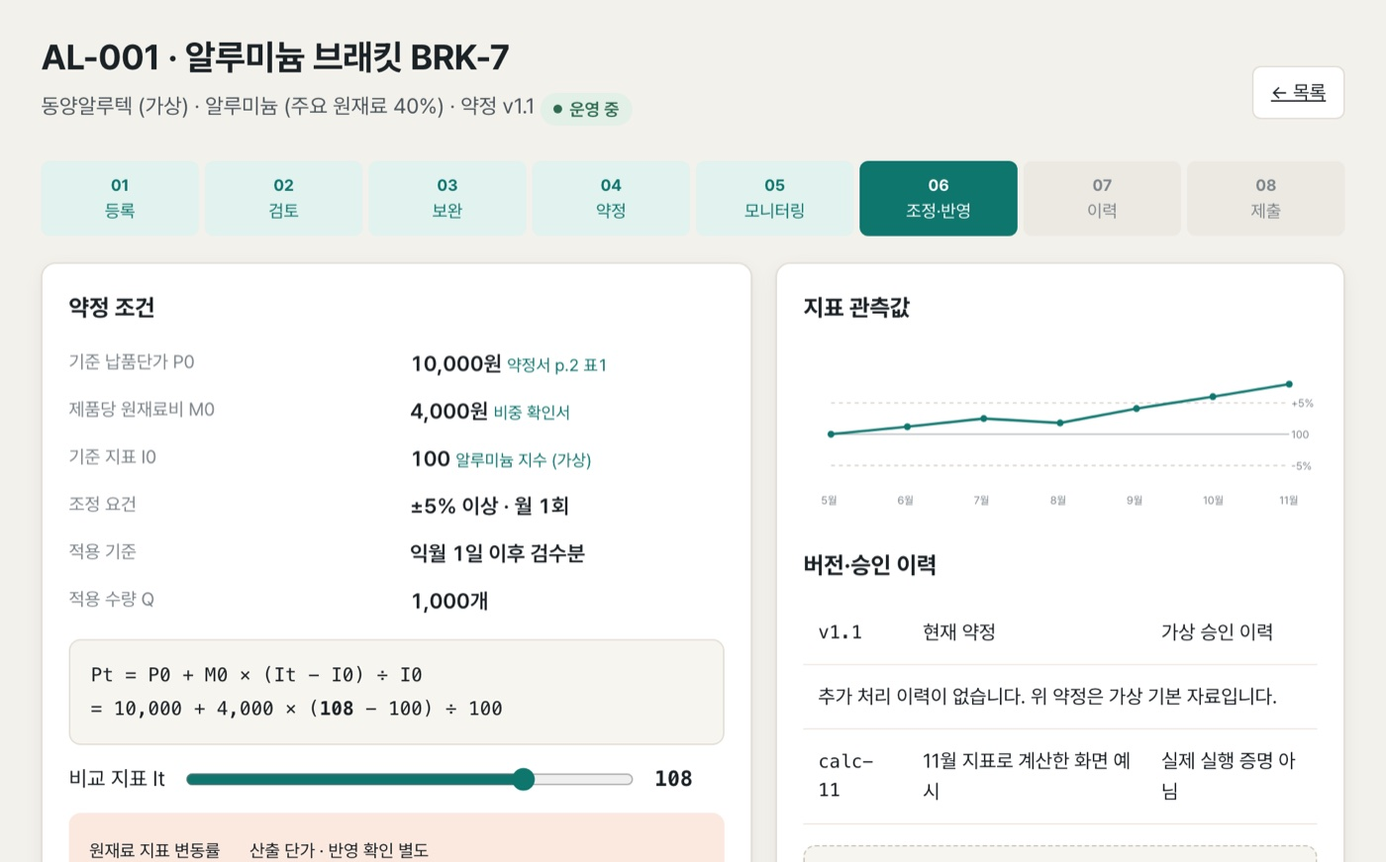
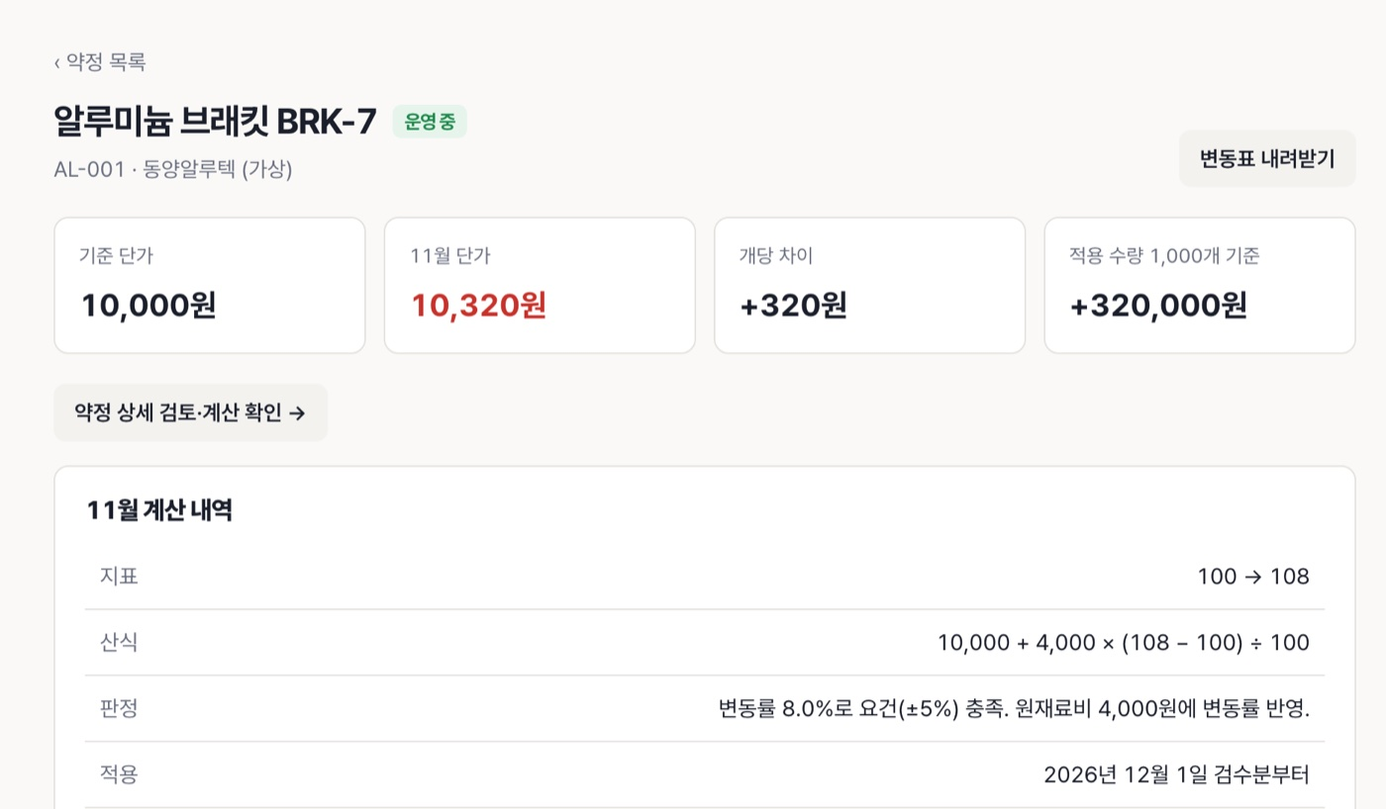
style: 소개 페이지 그림 톤을 실제 기업 대시보드에 맞추고 첫 화면 제목 교체
- 주요 기능 캡처 3장을 기업 대시보드(my.html)에서 핵심 부분만 크게 다시 찍음
  (약정 상세 계산, 처리할 업무의 발주 미반영, 공급사 자료 요청)
- 첫 화면 가짜 화면을 대시보드 톤(흰 메뉴·따뜻한 회색·남색)으로
- 제목: '계산에서 끝나지 않는 단가 조정'

diff --git a/index.html b/index.html
@@ -8,7 +8,7 @@
 <link rel="stylesheet" href="https://cdn.jsdelivr.net/gh/orioncactus/pretendard@v1.3.9/dist/web/variable/pretendardvariable-dynamic-subset.min.css">
 </head>
 <body>
-<div class="home"><nav class="home-nav"><button class="home-logo" data-go="#top" aria-label="Faccon 처음으로"><span class="brand-mark">F</span>Faccon</button><div class="home-links" id="home-links"><button data-go="#problem">서비스 소개</button><button data-go="#features">주요 기능</button><button data-go="#process">이용 방식</button><button data-go="#trust">보안·데이터 정책</button><button data-go="#contact">도입 문의</button></div><div class="home-nav-actions"><button class="supplier-link" data-go="./login.html">초대받은 공급기업이십니까?</button><button class="login-btn" data-go="./login.html">로그인</button><button class="home-cta small" data-go="#contact">도입 문의</button></div><button class="menu-toggle" aria-label="메뉴 열기" aria-expanded="false"><span></span><span></span><span></span></button></nav><main class="home-main"><section class="home-hero" id="top"><div class="hero-glow"></div><div class="hero-copy"><h1>연동약정 단가, <em>반영까지 한&nbsp;번에</em></h1><p>약정 산식대로 조정단가를 계산하고, 발주서·청구서에 반영됐는지 매달 확인합니다.</p><div class="hero-actions"><button class="home-cta" data-go="#contact">도입 상담 신청</button><button class="outline-cta" data-go="./my.html">서비스 화면 보기</button></div></div><div class="hero-product"><div class="product-window" role="img" aria-label="서비스 화면 예시 (가상 데이터): 운영 중인 약정 3건, 미반영 발주 1건"><div class="product-bar"><div class="mini-logo"><span>F</span> Faccon</div><div class="product-search"></div><div class="product-user"></div></div><div class="product-body"><div class="product-side"><span class="side-line active"></span><span class="side-line"></span><span class="side-line"></span><span class="side-line short"></span></div><div class="product-content"><div class="mock-welcome"><div><span>2026년 11월 운영 현황</span><strong>이번 달 약정 현황</strong></div><button>+ 새 연동약정</button></div><div class="mock-metrics"><div><span>운영 중인 약정</span><strong>3<small>건</small></strong></div><div><span>조정 대상 품목</span><strong>2<small>개</small></strong></div><div class="alert-metric"><span>미반영 발주</span><strong>1<small>건</small></strong></div></div><div class="mock-panel"><div class="mock-title"><strong>이번 달 단가 조정</strong><span>전체 보기 →</span></div><div class="mock-row"><span class="mock-company">동</span><div><strong>동양알루텍 (가상)</strong><small>알루미늄 브래킷 BRK-7</small></div><b>10,320원</b><em class="red">발주 미반영</em></div><div class="mock-row"><span class="mock-company">한</span><div><strong>한빛금속 (가상)</strong><small>동 단자 TM-3</small></div><b>1,452원</b><em class="green">반영 완료</em></div><div class="mock-row"><span class="mock-company">대</span><div><strong>대구캐스팅 (가상)</strong><small>다이캐스팅 하우징 HS-2</small></div><b>22,000원</b><em class="amber">검토 대기</em></div></div></div></div></div><div class="floating-alert"><span><svg width="18" height="18" viewBox="0 0 24 24" fill="none" stroke="currentColor" stroke-width="1.8" stroke-linecap="round" stroke-linejoin="round"><path d="m12 3 10 18H2z"></path><path d="M12 9v4M12 17h.01"></path></svg></span><div><small>반영 대조 알림</small><strong>이전 단가 발주 1건 발견</strong><em>예상 차액 320,000원</em></div></div><div class="floating-rule"><span><svg width="17" height="17" viewBox="0 0 24 24" fill="none" stroke="currentColor" stroke-width="1.8" stroke-linecap="round" stroke-linejoin="round"><rect x="4" y="3" width="16" height="18" rx="2"></rect><path d="M8 7h8v3H8zM8 14h.01M12 14h.01M16 14h.01M8 18h.01M12 18h.01M16 18h.01"></path></svg></span><div><small>11월 단가 계산</small><strong>약정 규칙으로 계산 완료</strong></div><svg width="16" height="16" viewBox="0 0 24 24" fill="none" stroke="currentColor" stroke-width="1.8" stroke-linecap="round" stroke-linejoin="round"><path d="m5 12 4 4L19 6"></path></svg></div></div></section><section class="problem-section" id="problem"><div class="section-heading centered"><span><b>01</b>필요성</span><h2>약정은 맺었는데, <em>운영</em>이 어렵습니다</h2><p>매달 놓치기 쉬운 세 가지를 Faccon이 먼저 찾아 알려 드립니다.</p></div><div class="pain-row"><article class="pain"><div class="problem-icon "><svg width="20" height="20" viewBox="0 0 24 24" fill="none" stroke="currentColor" stroke-width="1.8" stroke-linecap="round" stroke-linejoin="round"><rect x="3" y="5" width="18" height="16" rx="2"></rect><path d="M16 3v4M8 3v4M3 10h18"></path></svg></div><h3>갱신 시점을 놓칩니다</h3><div class="issue-chip amber"><svg width="14" height="14" viewBox="0 0 24 24" fill="none" stroke="currentColor" stroke-width="1.8" stroke-linecap="round" stroke-linejoin="round"><circle cx="12" cy="12" r="9"></circle><path d="M12 7v5l3 2"></path></svg> 만료 14일 전 알림</div></article><article class="pain"><div class="problem-icon red"><svg width="20" height="20" viewBox="0 0 24 24" fill="none" stroke="currentColor" stroke-width="1.8" stroke-linecap="round" stroke-linejoin="round"><path d="M7 7h11M14 4l4 3-4 3M17 17H6M10 14l-4 3 4 3"></path></svg></div><h3>계산한 단가가 발주서에 빠집니다</h3><div class="issue-chip red"><svg width="14" height="14" viewBox="0 0 24 24" fill="none" stroke="currentColor" stroke-width="1.8" stroke-linecap="round" stroke-linejoin="round"><path d="m12 3 10 18H2z"></path><path d="M12 9v4M12 17h.01"></path></svg> 단가 불일치 발견</div></article><article class="pain"><div class="problem-icon blue"><svg width="20" height="20" viewBox="0 0 24 24" fill="none" stroke="currentColor" stroke-width="1.8" stroke-linecap="round" stroke-linejoin="round"><path d="M3 6h7l2 2h9v11a2 2 0 0 1-2 2H5a2 2 0 0 1-2-2z"></path></svg></div><h3>같은 자료를 매번 다시 요청합니다</h3><div class="issue-chip blue"><svg width="14" height="14" viewBox="0 0 24 24" fill="none" stroke="currentColor" stroke-width="1.8" stroke-linecap="round" stroke-linejoin="round"><path d="M6 3h9l3 3v15H6z"></path><path d="M14 3v4h4M9 12h6M9 16h6"></path></svg> 기존 자료 재사용</div></article></div></section><section class="feature-section" id="features"><div class="section-heading centered"><span><b>02</b>주요 기능</span><h2>계산부터 <em>반영 확인</em>까지 한곳에서</h2><p>실제 서비스 화면입니다. 회사·금액은 가상 데이터입니다.</p></div><div class="show-rows"><div class="show-row"><div class="show-text"><small>단가 계산</small><h3>약정 산식 그대로 계산합니다</h3><p>근거 문서와 계산식을 함께 남겨, 양사가 같은 결과를 봅니다.</p></div><figure class="show-shot"><img src="./feat-calc.jpg" width="1400" height="871" alt="연동약정 상세 화면 (가상 데이터): 약정 조건, 계산식, 지표 변동 그래프" loading="lazy"></figure></div><div class="show-row flip"><div class="show-text"><small>반영 대조</small><h3>발주서에 빠진 단가를 찾아냅니다</h3><p>계산 단가와 발주·청구 단가를 비교해 차액을 바로 보여 줍니다.</p></div><figure class="show-shot"><img src="./feat-recon.jpg" width="1400" height="871" alt="반영 대조 화면 (가상 데이터): 계산단가 10,320원, 발주단가 10,000원, 발주 불일치" loading="lazy"></figure></div><div class="show-row"><div class="show-text"><small>자료 공유</small><h3>필요한 자료만, 정한 범위에서</h3><p>공급기업이 공개 범위를 정하고, 누가 봤는지 이력이 남습니다.</p></div><figure class="show-shot"><img src="./feat-share.jpg" width="1400" height="768" alt="자료 요청·공유 화면 (가상 데이터): 요청 항목, 기간, 공유 범위, 상태" loading="lazy"></figure></div></div></section><section class="process-section" id="process"><div class="section-heading centered"><span><b>03</b>이용 방식</span><h2><em>네 단계</em>면 매달 같은 흐름으로</h2><p>처음 한 번 설정하면, 다음 달부터는 지표 확인과 대조만 남습니다.</p></div><div class="process-flow"><article><div class="process-icon"><svg width="20" height="20" viewBox="0 0 24 24" fill="none" stroke="currentColor" stroke-width="1.8" stroke-linecap="round" stroke-linejoin="round"><path d="M6 3h9l3 3v15H6z"></path><path d="M14 3v4h4M9 12h6M9 16h5"></path></svg></div><span class="process-line"><svg width="16" height="16" viewBox="0 0 24 24" fill="none" stroke="currentColor" stroke-width="1.8" stroke-linecap="round" stroke-linejoin="round"><path d="M5 12h14M13 6l6 6-6 6"></path></svg></span><em>STEP 01</em><h3>약정을 등록합니다</h3></article><article><div class="process-icon"><svg width="20" height="20" viewBox="0 0 24 24" fill="none" stroke="currentColor" stroke-width="1.8" stroke-linecap="round" stroke-linejoin="round"><path d="M4 21V5l8-2v18M12 8h8v13M8 8h.01M8 12h.01M8 16h.01M16 12h.01M16 16h.01M2 21h20"></path></svg></div><span class="process-line"><svg width="16" height="16" viewBox="0 0 24 24" fill="none" stroke="currentColor" stroke-width="1.8" stroke-linecap="round" stroke-linejoin="round"><path d="M5 12h14M13 6l6 6-6 6"></path></svg></span><em>STEP 02</em><h3>공급기업을 초대합니다</h3></article><article><div class="process-icon"><svg width="20" height="20" viewBox="0 0 24 24" fill="none" stroke="currentColor" stroke-width="1.8" stroke-linecap="round" stroke-linejoin="round"><rect x="4" y="3" width="16" height="18" rx="2"></rect><path d="M8 7h8v3H8zM8 14h.01M12 14h.01M16 14h.01M8 18h.01M12 18h.01M16 18h.01"></path></svg></div><span class="process-line"><svg width="16" height="16" viewBox="0 0 24 24" fill="none" stroke="currentColor" stroke-width="1.8" stroke-linecap="round" stroke-linejoin="round"><path d="M5 12h14M13 6l6 6-6 6"></path></svg></span><em>STEP 03</em><h3>단가를 계산합니다</h3></article><article><div class="process-icon"><svg width="20" height="20" viewBox="0 0 24 24" fill="none" stroke="currentColor" stroke-width="1.8" stroke-linecap="round" stroke-linejoin="round"><path d="M7 7h11M14 4l4 3-4 3M17 17H6M10 14l-4 3 4 3"></path></svg></div><em>STEP 04</em><h3>실제 반영을 확인합니다</h3></article></div></section><section class="trust-section" id="trust"><div class="section-heading centered"><span><b>04</b>보안·데이터</span><h2><em>원가 원문</em>은 공급기업이 정한 만큼만</h2><p>구매기업과 공급기업이 같은 계산 결과를 보고, 민감한 정보는 지킵니다.</p></div><div class="trust-row"><div class="trust-item"><span><svg width="20" height="20" viewBox="0 0 24 24" fill="none" stroke="currentColor" stroke-width="1.8" stroke-linecap="round" stroke-linejoin="round"><rect x="4" y="3" width="16" height="18" rx="2"></rect><path d="M8 7h8v3H8zM8 14h.01M12 14h.01M16 14h.01M8 18h.01M12 18h.01M16 18h.01"></path></svg></span><h3>규칙으로만 계산</h3><p>AI가 금액을 정하지 않습니다. 합의한 산식과 공인 지표만 씁니다.</p></div><div class="trust-item"><span><svg width="20" height="20" viewBox="0 0 24 24" fill="none" stroke="currentColor" stroke-width="1.8" stroke-linecap="round" stroke-linejoin="round"><path d="M6 3h9l3 3v15H6z"></path><path d="M14 3v4h4M9 12h6M9 16h6"></path></svg></span><h3>공개 범위는 공급기업이</h3><p>원가 원문은 기본 비공개, 허용한 항목만 보입니다. 공급기업은 무료입니다.</p></div><div class="trust-item"><span><svg width="20" height="20" viewBox="0 0 24 24" fill="none" stroke="currentColor" stroke-width="1.8" stroke-linecap="round" stroke-linejoin="round"><circle cx="12" cy="12" r="9"></circle><path d="M12 7v5l3 2"></path></svg></span><h3>모든 이력 보관</h3><p>누가 언제 무엇을 확인·변경했는지 남습니다.</p></div></div></section><section class="contact-section" id="contact"><div><span>도입 문의</span><h2>이번 달 조정단가,<br>실제 발주에도 반영됐습니까?</h2><p>Faccon으로 약정 계산부터 발주·청구 대조까지 한곳에서 관리하십시오.</p><ul><li><svg width="15" height="15" viewBox="0 0 24 24" fill="none" stroke="currentColor" stroke-width="1.8" stroke-linecap="round" stroke-linejoin="round"><path d="m5 12 4 4L19 6"></path></svg> 귀사의 약정 운영 방식에 맞춘 도입 상담</li><li><svg width="15" height="15" viewBox="0 0 24 24" fill="none" stroke="currentColor" stroke-width="1.8" stroke-linecap="round" stroke-linejoin="round"><path d="m5 12 4 4L19 6"></path></svg> 가상 데이터 기반 샘플 리포트 제공</li><li><svg width="15" height="15" viewBox="0 0 24 24" fill="none" stroke="currentColor" stroke-width="1.8" stroke-linecap="round" stroke-linejoin="round"><path d="m5 12 4 4L19 6"></path></svg> 공급기업은 초대를 통해 무료 이용</li></ul></div><form id="home-contact" novalidate><h3>도입 상담 신청</h3><p>간단한 정보를 남겨주시면 담당자가 연락드립니다.</p><div class="form-grid"><label>기업명<input name="company" required placeholder="예: A정밀 (가상)" autocomplete="organization"></label><label>담당자명<input name="person" required placeholder="예: 김구매" autocomplete="name"></label><label>이메일<input name="email" required placeholder="name@company.com" type="email" autocomplete="email"></label><label>연락처<input name="phone" required placeholder="010-0000-0000" type="tel" autocomplete="tel"></label></div><label>문의 내용<textarea name="message" placeholder="관리 중인 약정 수와 필요한 기능을 적어 주십시오."></textarea></label><p class="form-status" id="home-contact-status" role="status" aria-live="polite"></p><button class="form-submit" type="submit">상담 신청하기 <svg width="16" height="16" viewBox="0 0 24 24" fill="none" stroke="currentColor" stroke-width="1.8" stroke-linecap="round" stroke-linejoin="round"><path d="M5 12h14M13 6l6 6-6 6"></path></svg></button><small>데모 화면입니다. 입력한 내용은 전송·저장되지 않습니다.</small></form></section></main><footer class="home-footer"><div class="footer-brand"><span class="brand-mark">F</span><div><strong>Faccon</strong><small>납품대금 연동약정 운영 솔루션</small></div></div><div class="footer-info"><a href="#problem">서비스 소개</a><a href="#trust">보안·데이터 정책</a><a href="./faq.html">자주 묻는 질문</a><a href="./login.html">기업 로그인</a></div><p>© 2026 Faccon · 화면의 회사·거래·금액은 모두 가상 데이터입니다.</p></footer></div>
+<div class="home"><nav class="home-nav"><button class="home-logo" data-go="#top" aria-label="Faccon 처음으로"><span class="brand-mark">F</span>Faccon</button><div class="home-links" id="home-links"><button data-go="#problem">서비스 소개</button><button data-go="#features">주요 기능</button><button data-go="#process">이용 방식</button><button data-go="#trust">보안·데이터 정책</button><button data-go="#contact">도입 문의</button></div><div class="home-nav-actions"><button class="supplier-link" data-go="./login.html">초대받은 공급기업이십니까?</button><button class="login-btn" data-go="./login.html">로그인</button><button class="home-cta small" data-go="#contact">도입 문의</button></div><button class="menu-toggle" aria-label="메뉴 열기" aria-expanded="false"><span></span><span></span><span></span></button></nav><main class="home-main"><section class="home-hero" id="top"><div class="hero-glow"></div><div class="hero-copy"><h1>계산에서 끝나지 않는 <em>단가&nbsp;조정</em></h1><p>약정 산식대로 조정단가를 계산하고, 발주서·청구서에 반영됐는지 매달 확인합니다.</p><div class="hero-actions"><button class="home-cta" data-go="#contact">도입 상담 신청</button><button class="outline-cta" data-go="./my.html">서비스 화면 보기</button></div></div><div class="hero-product"><div class="product-window" role="img" aria-label="서비스 화면 예시 (가상 데이터): 운영 중인 약정 3건, 미반영 발주 1건"><div class="product-bar"><div class="mini-logo"><span>F</span> Faccon</div><div class="product-search"></div><div class="product-user"></div></div><div class="product-body"><div class="product-side"><span class="side-line active"></span><span class="side-line"></span><span class="side-line"></span><span class="side-line short"></span></div><div class="product-content"><div class="mock-welcome"><div><span>2026년 11월 운영 현황</span><strong>이번 달 약정 현황</strong></div><button>+ 새 연동약정</button></div><div class="mock-metrics"><div><span>운영 중인 약정</span><strong>3<small>건</small></strong></div><div><span>조정 대상 품목</span><strong>2<small>개</small></strong></div><div class="alert-metric"><span>미반영 발주</span><strong>1<small>건</small></strong></div></div><div class="mock-panel"><div class="mock-title"><strong>이번 달 단가 조정</strong><span>전체 보기 →</span></div><div class="mock-row"><span class="mock-company">동</span><div><strong>동양알루텍 (가상)</strong><small>알루미늄 브래킷 BRK-7</small></div><b>10,320원</b><em class="red">발주 미반영</em></div><div class="mock-row"><span class="mock-company">한</span><div><strong>한빛금속 (가상)</strong><small>동 단자 TM-3</small></div><b>1,452원</b><em class="green">반영 완료</em></div><div class="mock-row"><span class="mock-company">대</span><div><strong>대구캐스팅 (가상)</strong><small>다이캐스팅 하우징 HS-2</small></div><b>22,000원</b><em class="amber">검토 대기</em></div></div></div></div></div><div class="floating-alert"><span><svg width="18" height="18" viewBox="0 0 24 24" fill="none" stroke="currentColor" stroke-width="1.8" stroke-linecap="round" stroke-linejoin="round"><path d="m12 3 10 18H2z"></path><path d="M12 9v4M12 17h.01"></path></svg></span><div><small>반영 대조 알림</small><strong>이전 단가 발주 1건 발견</strong><em>예상 차액 320,000원</em></div></div><div class="floating-rule"><span><svg width="17" height="17" viewBox="0 0 24 24" fill="none" stroke="currentColor" stroke-width="1.8" stroke-linecap="round" stroke-linejoin="round"><rect x="4" y="3" width="16" height="18" rx="2"></rect><path d="M8 7h8v3H8zM8 14h.01M12 14h.01M16 14h.01M8 18h.01M12 18h.01M16 18h.01"></path></svg></span><div><small>11월 단가 계산</small><strong>약정 규칙으로 계산 완료</strong></div><svg width="16" height="16" viewBox="0 0 24 24" fill="none" stroke="currentColor" stroke-width="1.8" stroke-linecap="round" stroke-linejoin="round"><path d="m5 12 4 4L19 6"></path></svg></div></div></section><section class="problem-section" id="problem"><div class="section-heading centered"><span><b>01</b>필요성</span><h2>약정은 맺었는데, <em>운영</em>이 어렵습니다</h2><p>매달 놓치기 쉬운 세 가지를 Faccon이 먼저 찾아 알려 드립니다.</p></div><div class="pain-row"><article class="pain"><div class="problem-icon "><svg width="20" height="20" viewBox="0 0 24 24" fill="none" stroke="currentColor" stroke-width="1.8" stroke-linecap="round" stroke-linejoin="round"><rect x="3" y="5" width="18" height="16" rx="2"></rect><path d="M16 3v4M8 3v4M3 10h18"></path></svg></div><h3>갱신 시점을 놓칩니다</h3><div class="issue-chip amber"><svg width="14" height="14" viewBox="0 0 24 24" fill="none" stroke="currentColor" stroke-width="1.8" stroke-linecap="round" stroke-linejoin="round"><circle cx="12" cy="12" r="9"></circle><path d="M12 7v5l3 2"></path></svg> 만료 14일 전 알림</div></article><article class="pain"><div class="problem-icon red"><svg width="20" height="20" viewBox="0 0 24 24" fill="none" stroke="currentColor" stroke-width="1.8" stroke-linecap="round" stroke-linejoin="round"><path d="M7 7h11M14 4l4 3-4 3M17 17H6M10 14l-4 3 4 3"></path></svg></div><h3>계산한 단가가 발주서에 빠집니다</h3><div class="issue-chip red"><svg width="14" height="14" viewBox="0 0 24 24" fill="none" stroke="currentColor" stroke-width="1.8" stroke-linecap="round" stroke-linejoin="round"><path d="m12 3 10 18H2z"></path><path d="M12 9v4M12 17h.01"></path></svg> 단가 불일치 발견</div></article><article class="pain"><div class="problem-icon blue"><svg width="20" height="20" viewBox="0 0 24 24" fill="none" stroke="currentColor" stroke-width="1.8" stroke-linecap="round" stroke-linejoin="round"><path d="M3 6h7l2 2h9v11a2 2 0 0 1-2 2H5a2 2 0 0 1-2-2z"></path></svg></div><h3>같은 자료를 매번 다시 요청합니다</h3><div class="issue-chip blue"><svg width="14" height="14" viewBox="0 0 24 24" fill="none" stroke="currentColor" stroke-width="1.8" stroke-linecap="round" stroke-linejoin="round"><path d="M6 3h9l3 3v15H6z"></path><path d="M14 3v4h4M9 12h6M9 16h6"></path></svg> 기존 자료 재사용</div></article></div></section><section class="feature-section" id="features"><div class="section-heading centered"><span><b>02</b>주요 기능</span><h2>계산부터 <em>반영 확인</em>까지 한곳에서</h2><p>실제 서비스 화면입니다. 회사·금액은 가상 데이터입니다.</p></div><div class="show-rows"><div class="show-row"><div class="show-text"><small>단가 계산</small><h3>약정 산식 그대로 계산합니다</h3><p>근거 문서와 계산식을 함께 남겨, 양사가 같은 결과를 봅니다.</p></div><figure class="show-shot"><img src="./feat-calc.jpg" width="1400" height="818" alt="약정 상세 화면 (가상 데이터): 기준 단가 10,000원, 11월 단가 10,320원, 지표 100→108과 산식" loading="lazy"></figure></div><div class="show-row flip"><div class="show-text"><small>반영 대조</small><h3>발주서에 빠진 단가를 찾아냅니다</h3><p>계산한 단가와 실제 발주 단가가 다르면, 차액과 기한을 할 일로 올려 드립니다.</p></div><figure class="show-shot"><img src="./feat-recon.jpg" width="1400" height="697" alt="처리할 업무 화면 (가상 데이터): 10,320원 계산 / 11월 발주 10,000원, +320,000원 미반영" loading="lazy"></figure></div><div class="show-row"><div class="show-text"><small>자료 공유</small><h3>필요한 자료만, 정한 범위에서</h3><p>공급기업이 공개 범위를 정하고, 누가 봤는지 이력이 남습니다.</p></div><figure class="show-shot"><img src="./feat-share.jpg" width="1400" height="526" alt="공급사 자료 요청 화면 (가상 데이터): 요청 항목, 공급사, 기간, 상태" loading="lazy"></figure></div></div></section><section class="process-section" id="process"><div class="section-heading centered"><span><b>03</b>이용 방식</span><h2><em>네 단계</em>면 매달 같은 흐름으로</h2><p>처음 한 번 설정하면, 다음 달부터는 지표 확인과 대조만 남습니다.</p></div><div class="process-flow"><article><div class="process-icon"><svg width="20" height="20" viewBox="0 0 24 24" fill="none" stroke="currentColor" stroke-width="1.8" stroke-linecap="round" stroke-linejoin="round"><path d="M6 3h9l3 3v15H6z"></path><path d="M14 3v4h4M9 12h6M9 16h5"></path></svg></div><span class="process-line"><svg width="16" height="16" viewBox="0 0 24 24" fill="none" stroke="currentColor" stroke-width="1.8" stroke-linecap="round" stroke-linejoin="round"><path d="M5 12h14M13 6l6 6-6 6"></path></svg></span><em>STEP 01</em><h3>약정을 등록합니다</h3></article><article><div class="process-icon"><svg width="20" height="20" viewBox="0 0 24 24" fill="none" stroke="currentColor" stroke-width="1.8" stroke-linecap="round" stroke-linejoin="round"><path d="M4 21V5l8-2v18M12 8h8v13M8 8h.01M8 12h.01M8 16h.01M16 12h.01M16 16h.01M2 21h20"></path></svg></div><span class="process-line"><svg width="16" height="16" viewBox="0 0 24 24" fill="none" stroke="currentColor" stroke-width="1.8" stroke-linecap="round" stroke-linejoin="round"><path d="M5 12h14M13 6l6 6-6 6"></path></svg></span><em>STEP 02</em><h3>공급기업을 초대합니다</h3></article><article><div class="process-icon"><svg width="20" height="20" viewBox="0 0 24 24" fill="none" stroke="currentColor" stroke-width="1.8" stroke-linecap="round" stroke-linejoin="round"><rect x="4" y="3" width="16" height="18" rx="2"></rect><path d="M8 7h8v3H8zM8 14h.01M12 14h.01M16 14h.01M8 18h.01M12 18h.01M16 18h.01"></path></svg></div><span class="process-line"><svg width="16" height="16" viewBox="0 0 24 24" fill="none" stroke="currentColor" stroke-width="1.8" stroke-linecap="round" stroke-linejoin="round"><path d="M5 12h14M13 6l6 6-6 6"></path></svg></span><em>STEP 03</em><h3>단가를 계산합니다</h3></article><article><div class="process-icon"><svg width="20" height="20" viewBox="0 0 24 24" fill="none" stroke="currentColor" stroke-width="1.8" stroke-linecap="round" stroke-linejoin="round"><path d="M7 7h11M14 4l4 3-4 3M17 17H6M10 14l-4 3 4 3"></path></svg></div><em>STEP 04</em><h3>실제 반영을 확인합니다</h3></article></div></section><section class="trust-section" id="trust"><div class="section-heading centered"><span><b>04</b>보안·데이터</span><h2><em>원가 원문</em>은 공급기업이 정한 만큼만</h2><p>구매기업과 공급기업이 같은 계산 결과를 보고, 민감한 정보는 지킵니다.</p></div><div class="trust-row"><div class="trust-item"><span><svg width="20" height="20" viewBox="0 0 24 24" fill="none" stroke="currentColor" stroke-width="1.8" stroke-linecap="round" stroke-linejoin="round"><rect x="4" y="3" width="16" height="18" rx="2"></rect><path d="M8 7h8v3H8zM8 14h.01M12 14h.01M16 14h.01M8 18h.01M12 18h.01M16 18h.01"></path></svg></span><h3>규칙으로만 계산</h3><p>AI가 금액을 정하지 않습니다. 합의한 산식과 공인 지표만 씁니다.</p></div><div class="trust-item"><span><svg width="20" height="20" viewBox="0 0 24 24" fill="none" stroke="currentColor" stroke-width="1.8" stroke-linecap="round" stroke-linejoin="round"><path d="M6 3h9l3 3v15H6z"></path><path d="M14 3v4h4M9 12h6M9 16h6"></path></svg></span><h3>공개 범위는 공급기업이</h3><p>원가 원문은 기본 비공개, 허용한 항목만 보입니다. 공급기업은 무료입니다.</p></div><div class="trust-item"><span><svg width="20" height="20" viewBox="0 0 24 24" fill="none" stroke="currentColor" stroke-width="1.8" stroke-linecap="round" stroke-linejoin="round"><circle cx="12" cy="12" r="9"></circle><path d="M12 7v5l3 2"></path></svg></span><h3>모든 이력 보관</h3><p>누가 언제 무엇을 확인·변경했는지 남습니다.</p></div></div></section><section class="contact-section" id="contact"><div><span>도입 문의</span><h2>이번 달 조정단가,<br>실제 발주에도 반영됐습니까?</h2><p>Faccon으로 약정 계산부터 발주·청구 대조까지 한곳에서 관리하십시오.</p><ul><li><svg width="15" height="15" viewBox="0 0 24 24" fill="none" stroke="currentColor" stroke-width="1.8" stroke-linecap="round" stroke-linejoin="round"><path d="m5 12 4 4L19 6"></path></svg> 귀사의 약정 운영 방식에 맞춘 도입 상담</li><li><svg width="15" height="15" viewBox="0 0 24 24" fill="none" stroke="currentColor" stroke-width="1.8" stroke-linecap="round" stroke-linejoin="round"><path d="m5 12 4 4L19 6"></path></svg> 가상 데이터 기반 샘플 리포트 제공</li><li><svg width="15" height="15" viewBox="0 0 24 24" fill="none" stroke="currentColor" stroke-width="1.8" stroke-linecap="round" stroke-linejoin="round"><path d="m5 12 4 4L19 6"></path></svg> 공급기업은 초대를 통해 무료 이용</li></ul></div><form id="home-contact" novalidate><h3>도입 상담 신청</h3><p>간단한 정보를 남겨주시면 담당자가 연락드립니다.</p><div class="form-grid"><label>기업명<input name="company" required placeholder="예: A정밀 (가상)" autocomplete="organization"></label><label>담당자명<input name="person" required placeholder="예: 김구매" autocomplete="name"></label><label>이메일<input name="email" required placeholder="name@company.com" type="email" autocomplete="email"></label><label>연락처<input name="phone" required placeholder="010-0000-0000" type="tel" autocomplete="tel"></label></div><label>문의 내용<textarea name="message" placeholder="관리 중인 약정 수와 필요한 기능을 적어 주십시오."></textarea></label><p class="form-status" id="home-contact-status" role="status" aria-live="polite"></p><button class="form-submit" type="submit">상담 신청하기 <svg width="16" height="16" viewBox="0 0 24 24" fill="none" stroke="currentColor" stroke-width="1.8" stroke-linecap="round" stroke-linejoin="round"><path d="M5 12h14M13 6l6 6-6 6"></path></svg></button><small>데모 화면입니다. 입력한 내용은 전송·저장되지 않습니다.</small></form></section></main><footer class="home-footer"><div class="footer-brand"><span class="brand-mark">F</span><div><strong>Faccon</strong><small>납품대금 연동약정 운영 솔루션</small></div></div><div class="footer-info"><a href="#problem">서비스 소개</a><a href="#trust">보안·데이터 정책</a><a href="./faq.html">자주 묻는 질문</a><a href="./login.html">기업 로그인</a></div><p>© 2026 Faccon · 화면의 회사·거래·금액은 모두 가상 데이터입니다.</p></footer></div>
 <script type="module" src="/src/home/home.ts"></script>
 </body>
 </html>

diff --git a/src/home/home-feel.css b/src/home/home-feel.css
@@ -190,3 +190,19 @@ body,.home{font-family:'Pretendard Variable',Pretendard,system-ui,-apple-system,
 /* 첫 화면 가짜 화면 크기: 약 740px (한 화면 안에 다 보이게) */
 @media (min-width:1001px){.hero-product{width:640px;zoom:1.15}.floating-alert{right:-70px}.floating-rule{left:-70px}}
 @media (min-width:1001px){.hero-product{zoom:1.05}}
+
+/* ── 첫 화면 가짜 화면을 실제 기업 대시보드 톤으로 (흰 메뉴 · 따뜻한 회색 바탕 · 남색) ── */
+.product-window{border-color:#e3e1dc}
+.product-bar{border-bottom-color:#e3e1dc}
+.product-side{background:#fff;border-right:1px solid #e3e1dc}
+.side-line{background:#e3e1dc}
+.side-line.active{background:#e6ebf3;border-left:2px solid #1e3a68}
+.product-content{background:#faf9f7}
+.mock-welcome span{color:#6a7080}
+.mock-welcome strong{color:#1a1f2b}
+.mock-welcome button{background:#1e3a68}
+.mock-metrics > div{border-color:#e3e1dc}
+.mock-metrics .alert-metric{border:2px solid #1e3a68}
+.mock-panel{border-color:#e3e1dc}
+.mock-company{color:#1e3a68;background:#e6ebf3}
+.show-shot{border-color:#e3e1dc;background:#faf9f7}
